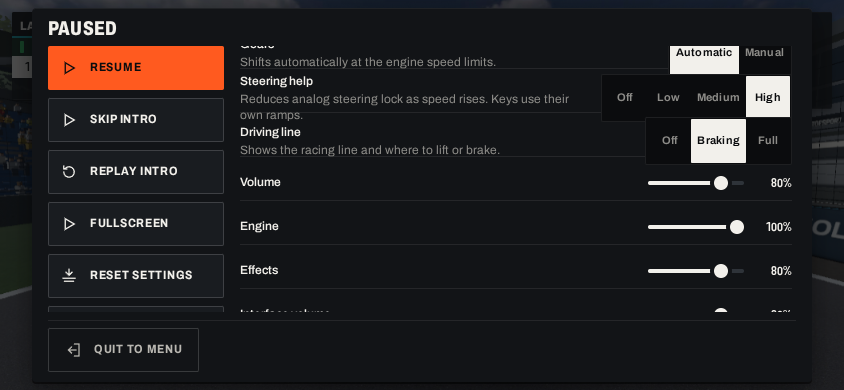
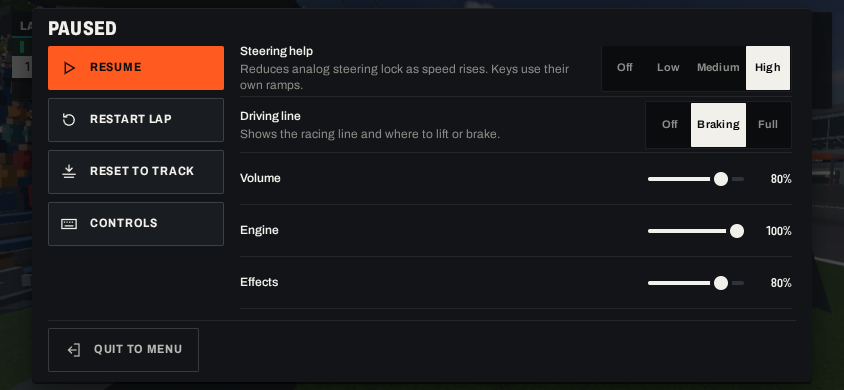
Record the review fixes: phone frames, offline and Auto decisions, deploy notes

diff --git a/docs/STATUS.md b/docs/STATUS.md
@@ -10,7 +10,7 @@ Open the `Wi-Fi:` address it prints on a phone on the same network. The HTTPS ad
 
 ## What changed
 
-- M6 phone slice: first-lap guidance follows the active controls and driving-line braking cue, explains track limits and pause, and remembers completion or skipping per browser. Replay or skip it from pause settings, including with gamepad navigation. Portrait phone play pauses with a rotate banner; settings remain usable. Touch buttons give a short vibration where supported; pause offers Fullscreen, and driving requests a screen wake lock. All five audio buses, speed units, Auto graphics and reset settings are exposed in pause. Mobile caps pixel ratio at 1.25; High is unchanged. An installable manifest and versioned service worker cache the Mobile first circuit for offline Time Trial; rooms are excluded. Evidence: `docs/evidence/m6-mobile/`.
+- M6 phone slice: first-lap guidance follows the active controls and driving-line braking cue, explains track limits and pause, and remembers completion or skipping per browser. Each tip moves on by what the player does, on any device; a phone shows a compact card under the timing tower. Replay or skip it from pause settings rows, including with gamepad navigation; Auto graphics benchmarks once and never strands an offline session on an uncached preset; the cockpit display follows mph. Portrait phone play pauses with a rotate banner; settings remain usable. Touch buttons give a short vibration where supported; pause offers Fullscreen, and driving requests a screen wake lock. All five audio buses, speed units, Auto graphics and reset settings are exposed in pause. Mobile caps pixel ratio at 1.25; High is unchanged. An installable manifest and versioned service worker cache the Mobile first circuit for offline Time Trial; rooms are excluded. Evidence: `docs/evidence/m6-mobile/`.
 
 - M2 interface: a launch screen, then a main menu on one designed kit (tokens, icon set, prompt glyphs that follow the device, components) with the five modes, circuit select (Monza, Spa-Francorchamps and Singapore Marina Bay, each with its plan, length, corners, direction and the record on this device), team and driver pick with a studio image of the car in that livery, and session settings with per-device assist presets. Time Trial runs at any of the three circuits; Online Rooms opens the lobby; Quick Race, Race Weekend and Championship say plainly that they arrive with the race screen. The time-trial HUD is a timing tower top left with the map in the right column. Keyboard, gamepad (D-pad, A, B, LB and RB or Q and E for modes) and touch reach every control. Evidence: `docs/evidence/m2-ui/`.
 - M4 racing lines: Spa (medium trim) and Singapore (high trim) have racing lines, speed profiles and reference laps built with `npm run ai:build` like Monza. Spa 109.072 s against the 1:40.562 pole (+8.5 %, a recorded gap, mostly in the downforce sector), Singapore 91.817 s against 1:29.158 (+3.0 %, inside its band), both clean; ten-lap soaks nightly. `npm run telemetry -- lap --circuit spa` prints the tables (docs/physics-validation.md 7.8). The circuits are not in the game's menus yet.
@@ -87,7 +87,9 @@ Keys: arrows or WASD drive, Q/E shift (gears are automatic by default), F asks f
 ## Decided for you
 
 - M6 phone: keep the validated touch assist preset and existing 48 px buttons. Require landscape to drive; rotating back leaves pause open so the car never resumes unexpectedly. Browser capabilities are optional; unsupported fullscreen, wake lock or vibration never block play.
-- M6 offline: precache the budget inventory for Mobile at the first circuit. Updates wait for all old tabs to close, keeping each page and its cached chunks on one build. Debug measurements disable registration unless `offline=1` is explicit. Offline/install features need HTTPS or a browser-trusted local origin; the Wi-Fi HTTP address still drives online.
+- M6 offline: precache the shell (stored under `./`, never `index.html`, because Cloudflare answers `/index.html` with a redirect) and the Mobile first-circuit files under `assets/`; other `assets/` files are kept as they are fetched, so a preset once played online also works offline. Dynamic endpoints (`network-info`, `/rooms`, `sw.js`) are never cached, and a cache miss falls back to the network. A new build installs beside the running one and shows a "new version" bar (hidden while driving); Reload activates it (`skipWaiting`, `clients.claim`) and reloads, other tabs get the same bar. A race is never reloaded without the player choosing it. Debug measurements disable registration unless `offline=1` is explicit. Offline/install features need HTTPS or a browser-trusted local origin; the Wi-Fi HTTP address still drives online.
+- M6 Auto graphics: benchmark once and save the pick (`settings.quality.auto`); choosing Auto or Reset settings measures again. Offline, Auto only moves to Mobile (the cached preset); a pick that fails to load keeps the current preset and is not saved; a saved pick that cannot load at launch falls back to Mobile. Mobile's benchmark cost was scaled by its pixel-cap change (0.4 → 0.28), assuming the whole saving is fill: conservative, but on this laptop's GPU the emulated phone still picks Medium, which is the benchmark's honest answer for that GPU.
+- M6 first-lap coach: every tip moves on by itself (driving for 3 s on the controls tip, braking in or passing the red zone, 10 s on track limits and 4 s after an invalid lap, pausing on the last); a completed lap after it starts finishes it. On a phone it is a compact card under the timing tower that lets touches through; Skip and Replay are pause settings rows. Skip, Replay, Fullscreen and Reset settings moved out of the pause action column so the driving actions stay above the fold at 844x390.
 - M6 performance: use Time Trial at corners until Quick Race is playable on the base, and the existing static twenty-car grid for grid load. Laptop emulation does not establish a real phone score or thermal performance. Keep High unchanged; use the existing dynamic-resolution seam with a lower Mobile pixel cap.
 - Physics gaps (M4, PR 38): the car is unchanged. Matching the published brake powers (a 22.5–23 mm master cylinder) and raising the low and medium downforce to the cited team figure ("three or four times the weight" at top speed) brought the laps to about 82.5 / 107.1–107.4 / 90.5–90.7 s, but each moved a check that passes on master (the 330 km/h lock, the Monza T1 2025 stop time, the Spa T5 2025 peak and trap, three PR 19 kerb cases, the clumsy keyboard and autopilot laps). Per the owner's rule the passing checks win: the four brake powers are validation targets recorded as gaps, and the trial is in `docs/physics-validation.md` section 7.9. OpenF1 telemetry is CC BY-NC-SA, so it was looked at only privately and nothing in the repository rests on it.
 

diff --git a/docs/evidence/m6-mobile/README.md b/docs/evidence/m6-mobile/README.md
@@ -27,13 +27,17 @@ The cap changes 1.5 → 1.25 CSS-pixel ratio: 30.6% fewer drawing-buffer pixels.
 
 Validation: 235 input/controls unit tests; 4 analog drivability checks, including the touch spin target; targeted browser run 5 passed / 1 desktop-only skip in 32.3 s, including active simulation, portrait pause, settings reset, manifest/icons, waiting-worker update, old-cache deletion, and offline Mobile Time Trial advancing beyond tick 20. Transfer inventory test also passed separately. Full CI is recorded on the PR.
 
-The coach follows active bindings: controls → brake/line cue → track limits → pause. Next tip skips a step; Skip intro or a completed lap remembers completion. Pause settings replay or skip it with keyboard, touch or gamepad. Storage failures retain page-memory choices. Portrait captures show the rotate banner and paused settings; driving is deliberately unavailable there.
+The coach follows the active device's bindings: controls → braking cue → track limits → pause. Each tip moves on by what the player does (no click needed, so it works on a gamepad); a completed lap after it starts finishes it, including after Replay. On a phone it is a compact card under the timing tower that lets touches through to the steering zone, clear of the lap timer, sectors and invalid-lap flag; on a desktop it sits under the tower with Next tip and Skip buttons. Skip (while running) and Replay (once done) are pause settings rows. Storage failures retain page-memory choices.
+
+Review follow-up playtest (GPU, `--use-angle=gl-egl`, reviewer's script adapted): on phone and desktop the first tip moved to 2/4 after 4 s of throttle with no click; after one autopilot lap (valid, no spins) Replay intro showed the coach at 1/4 and it stayed up 3 s later; no page errors. Coach 12–282 x 108–167 against the timing panel 304–540 x 12–94 on the phone.
+
+Perf caveat (from the review): with vsync on every median is 16.7 ms, and with vsync off this laptop is CPU-bound at 1–2 ms a frame, so these runs cannot resolve the 31 % pixel saving. The table shows no regression; it is not proof of the size of the gain. A GPU-bound proxy or a real phone is still needed.
 
 Remaining real-phone work: sustained thermal runs on a mid-range Android and iOS device, actual GPU timing/memory, fullscreen/wake-lock lifecycle, vibration, browser-edge swipe behaviour, offline quota/eviction, and an independent mobile/performance score. A phone needs its own GPU frame under roughly 14 ms plus main-thread headroom for stable 60 fps; older devices can fall toward the existing 30 fps dynamic-resolution floor. No score is assigned from laptop emulation.
 
 ## Inspected frames
 
-- Landscape: [onboarding](onboarding-844x390.png), [HUD](hud-844x390.png), [pause](pause-844x390.png), [settings](settings-844x390.png).
-- Portrait: [onboarding state](onboarding-390x844.png), [HUD state](hud-390x844.png), [pause](pause-390x844.png), [settings](settings-390x844.png). The first three deliberately show the rotate banner and pause because driving is landscape-only.
+- Landscape: [coach, tip 1](onboarding-844x390.png), [coach, tip 2 after driving](onboarding-step2-844x390.png), [HUD](hud-844x390.png), [pause](pause-844x390.png), [settings](settings-844x390.png).
+- Portrait: [onboarding state](onboarding-390x844.png), [HUD state](hud-390x844.png), [pause](pause-390x844.png), [settings](settings-390x844.png). These show the rotate banner and pause because driving is landscape-only.
 
-The frames were inspected at their captured sizes. The coach leaves the car and road below it visible; narrow portrait settings stack vertically without horizontal overflow, and the landscape action list scrolls to its remaining controls. Images are captured at CSS resolution, with a DPR 3 rendering context.
+The frames were inspected at their captured sizes. At 844x390 Resume, Restart lap, Reset to track and Controls are all visible; the intro, display and defaults rows are at the end of the settings list. Settings rows size to their help text (they overlapped on master). Images are captured at CSS resolution, with a DPR 3 rendering context.

diff --git a/docs/DEPLOY.md b/docs/DEPLOY.md
@@ -120,5 +120,7 @@ Production defaults are set in `wrangler.jsonc`:
   - Unhashed `/assets/index.json`: `Cache-Control: no-cache`
   - Unhashed asset directories (`/assets/car/*`, `/assets/tex/*`, `/assets/env/*`, `/assets/draco/*`): `Cache-Control: public, max-age=86400`
   - `/rooms/*` API JSON responses: `Cache-Control: no-store`
+- **Offline app (service worker)**: `sw.js` (generated by `tools/serve/pwa.mjs`) precaches the shell under `./` and the Mobile first-circuit files, never `network-info` or `/rooms`. The shell is stored under `./` because Cloudflare answers `/index.html` with a 307 to `/`, and a redirected response cannot answer a page load. A deploy changes the cache name; open pages show a "new version" bar and switch when the player picks Reload. `tests/browser/pwa.spec.ts` runs against a proxy that redirects `/index.html` the same way.
+- **Phone over `./start.sh`**: the worker registers only on a secure origin. Over the Wi-Fi HTTP address there is no install or offline play, and over the Wi-Fi HTTPS address the self-signed certificate makes registration fail (the game still runs). Install and offline need the deployed HTTPS site, or a phone that trusts the local certificate.
 - **Routing**: `assets.not_found_handling` is `"none"` (the game lives at `/` with query parameters, so missing assets return 404 rather than HTML) and `assets.run_worker_first` is `["/rooms", "/rooms/*"]` so API routes always reach the Worker even on direct browser navigation.
 - **Security headers**: `X-Content-Type-Options: nosniff`, `X-Frame-Options: DENY`, `Referrer-Policy: no-referrer`, `Permissions-Policy` blocking camera/microphone/geolocation/payment/usb (leaving gamepad and fullscreen allowed), and a Content Security Policy that keeps `script-src` free of `'unsafe-inline'`/`'unsafe-eval'` while allowing `'wasm-unsafe-eval'` and `blob:` workers for Draco decoding, `'self'` for the AudioWorklet module, `'unsafe-inline'` in `style-src` for the touch-controls overlay, and `ws:`/`wss:` for same-origin room sockets.
